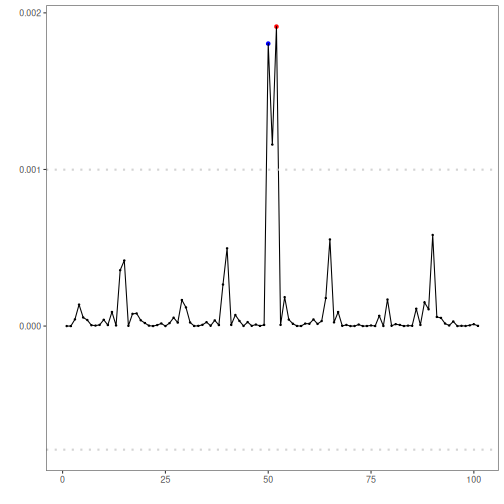
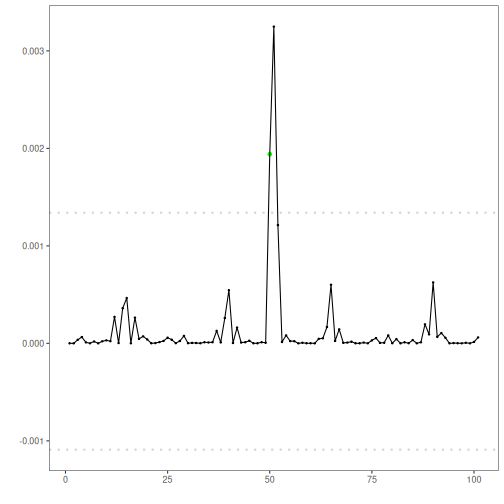
update

diff --git a/general/examples_harutils_outliers.md b/general/examples_harutils_outliers.md
@@ -30,7 +30,7 @@ har_plot(harbinger(), dataset$serie)
 ``` r
 # establishing arima method 
   model <- hanr_arima()
-  #using default hutils$har_outliers_boxplot
+  #using default hutils$har_outliers_gaussian
   #using default hutils$har_distance_l2
   # fitting the model
   model <- fit(model, dataset$serie)
@@ -46,7 +46,7 @@ har_plot(harbinger(), dataset$serie)
 
 ``` r
   model <- hanr_arima()
-  model$har_outliers <- hutils$har_outliers_gaussian
+  model$har_outliers <- hutils$har_outliers_boxplot
 # fitting the model
   model <- fit(model, dataset$serie)
 # making detections
@@ -92,7 +92,7 @@ har_plot(harbinger(), dataset$serie)
 ``` r
   model <- hanr_arima()
   model$har_distance <- hutils$har_distance_l1
-  model$har_outliers <- hutils$har_outliers_gaussian
+  model$har_outliers <- hutils$har_outliers_boxplot
 # fitting the model
   model <- fit(model, dataset$serie)
 # making detections
@@ -123,8 +123,8 @@ har_plot(harbinger(), dataset$serie)
 ``` r
   model <- hanr_arima()
   model$har_distance <- hutils$har_distance_l1
-  model$har_outliers <- hutils$har_outliers_gaussian
-  model$har_outliers_checks <- hutils$har_outliers_checks_firstgroup  
+  model$har_outliers <- hutils$har_outliers_boxplot
+  model$har_outliers_checks <- hutils$har_outliers_checks_highgroup  
 # fitting the model
   model <- fit(model, dataset$serie)
 # making detections

diff --git a/change_point/hcp_garch.md b/change_point/hcp_garch.md
@@ -59,10 +59,6 @@ har_plot(harbinger(), dataset$serie)
   detection <- detect(model, dataset$serie)
 ```
 
-```
-## Warning in obj$res[obj$non_na] <- res: number of items to replace is not a multiple of replacement length
-```
-
 
 ``` r
 # filtering detected events
@@ -71,7 +67,7 @@ har_plot(harbinger(), dataset$serie)
 
 ```
 ##   idx event        type
-## 1  51  TRUE changepoint
+## 1  50  TRUE changepoint
 ```
 
 
@@ -84,8 +80,8 @@ har_plot(harbinger(), dataset$serie)
 ```
 ##           event      
 ## detection TRUE  FALSE
-## TRUE      0     1    
-## FALSE     1     99
+## TRUE      1     0    
+## FALSE     0     100
 ```
 
 

diff --git a/anomalies/han_autoenc_denoise_ed.md b/anomalies/han_autoenc_denoise_ed.md
@@ -66,10 +66,8 @@ har_plot(harbinger(), dataset$serie)
 ```
 
 ```
-##   idx event    type
-## 1  27  TRUE anomaly
-## 2  51  TRUE anomaly
-## 3  77  TRUE anomaly
+## [1] idx   event type 
+## <0 rows> (or 0-length row.names)
 ```
 
 
@@ -82,8 +80,8 @@ har_plot(harbinger(), dataset$serie)
 ```
 ##           event      
 ## detection TRUE  FALSE
-## TRUE      0     3    
-## FALSE     1     97
+## TRUE      0     0    
+## FALSE     1     100
 ```
 
 

diff --git a/general/examples_harutils_distance.md b/general/examples_harutils_distance.md
@@ -24,14 +24,14 @@ values <- rnorm(30, mean = 0, sd = 1)
 
 ``` r
 v1 <- hutils$har_distance_l1(values)
-plot(v1)
+har_plot(harbinger(), v1)
 ```
 
 ![plot of chunk unnamed-chunk-4](fig/examples_harutils_distance/unnamed-chunk-4-1.png)
 
 ``` r
 v2 <- hutils$har_distance_l2(values)
-plot(v2)
+har_plot(harbinger(), v2)
 ```
 
 ![plot of chunk unnamed-chunk-5](fig/examples_harutils_distance/unnamed-chunk-5-1.png)

diff --git a/anomalies/han_autoenc_ed.md b/anomalies/han_autoenc_ed.md
@@ -68,7 +68,6 @@ model <- han_autoencoder(3, 2, autoenc_ed, num_epochs = 1500)
 ```
 ##   idx event    type
 ## 1  50  TRUE anomaly
-## 2  52  TRUE anomaly
 ```
 
 
@@ -81,8 +80,8 @@ model <- han_autoencoder(3, 2, autoenc_ed, num_epochs = 1500)
 ```
 ##           event      
 ## detection TRUE  FALSE
-## TRUE      1     1    
-## FALSE     0     99
+## TRUE      1     0    
+## FALSE     0     100
 ```
 
 

diff --git a/anomalies/han_autoenc_variational_ed.md b/anomalies/han_autoenc_variational_ed.md
@@ -67,8 +67,8 @@ har_plot(harbinger(), dataset$serie)
 
 ```
 ##   idx event    type
-## 1  50  TRUE anomaly
-## 2  83  TRUE anomaly
+## 1  30  TRUE anomaly
+## 2  51  TRUE anomaly
 ```
 
 
@@ -81,8 +81,8 @@ har_plot(harbinger(), dataset$serie)
 ```
 ##           event      
 ## detection TRUE  FALSE
-## TRUE      1     1    
-## FALSE     0     99
+## TRUE      0     2    
+## FALSE     1     98
 ```
 
 

diff --git a/anomalies/han_autoenc_conv_ed.md b/anomalies/han_autoenc_conv_ed.md
@@ -67,7 +67,7 @@ har_plot(harbinger(), dataset$serie)
 
 ```
 ##   idx event    type
-## 1  52  TRUE anomaly
+## 1  50  TRUE anomaly
 ```
 
 
@@ -80,8 +80,8 @@ har_plot(harbinger(), dataset$serie)
 ```
 ##           event      
 ## detection TRUE  FALSE
-## TRUE      0     1    
-## FALSE     1     99
+## TRUE      1     0    
+## FALSE     0     100
 ```
 
 

diff --git a/anomalies/hanr_garch.md b/anomalies/hanr_garch.md
@@ -67,7 +67,7 @@ har_plot(harbinger(), dataset$serie)
 
 ```
 ##   idx event    type
-## 1  51  TRUE anomaly
+## 1  50  TRUE anomaly
 ```
 
 
@@ -80,8 +80,8 @@ har_plot(harbinger(), dataset$serie)
 ```
 ##           event      
 ## detection TRUE  FALSE
-## TRUE      0     1    
-## FALSE     1     99
+## TRUE      1     0    
+## FALSE     0     100
 ```
 
 

diff --git a/anomalies/hanct_dtw_anomaly.md b/anomalies/hanct_dtw_anomaly.md
@@ -52,14 +52,6 @@ har_plot(harbinger(), dataset$serie)
   model <- fit(model, dataset$serie)
 ```
 
-```
-## Found more than one class "dist" in cache; using the first, from namespace 'dtwclust'
-```
-
-```
-## Also defined by 'spam'
-```
-
 
 ``` r
 # making detections of anomalies using kmeans

diff --git a/anomalies/hanct_dtw_discord.md b/anomalies/hanct_dtw_discord.md
@@ -53,14 +53,6 @@ har_plot(harbinger(), dataset$serie)
   model <- fit(model, dataset$serie)
 ```
 
-```
-## Found more than one class "dist" in cache; using the first, from namespace 'dtwclust'
-```
-
-```
-## Also defined by 'spam'
-```
-
 
 ``` r
 # making detections of discords using kmeans

diff --git a/change_point/hcp_scp.md b/change_point/hcp_scp.md
@@ -59,10 +59,6 @@ har_plot(harbinger(), dataset$serie)
   detection <- detect(model, dataset$serie)
 ```
 
-```
-## Warning in obj$res[obj$non_na] <- res: number of items to replace is not a multiple of replacement length
-```
-
 
 ``` r
 # filtering detected events

diff --git a/anomalies/han_autoenc_adv_ed.md b/anomalies/han_autoenc_adv_ed.md
@@ -7,6 +7,20 @@
 
 #loading Harbinger
 library(daltoolbox)
+```
+
+```
+## 
+## Attaching package: 'daltoolbox'
+```
+
+```
+## The following object is masked from 'package:base':
+## 
+##     transform
+```
+
+``` r
 library(harbinger) 
 ```
 
